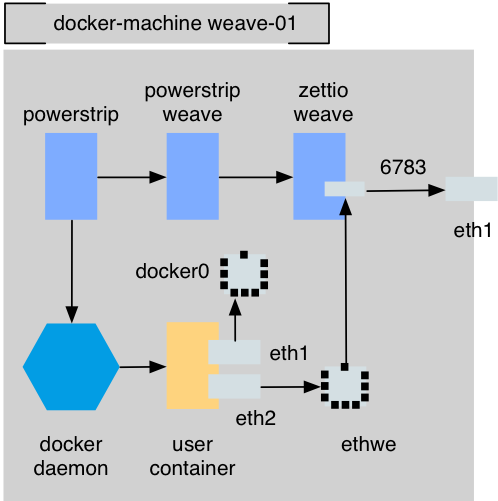
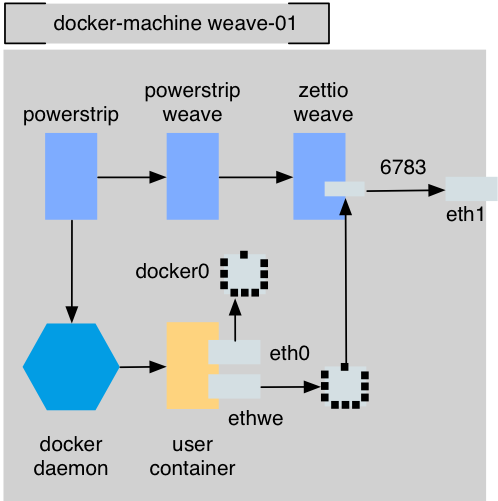
fix example weave01

diff --git a/README.md b/README.md
@@ -50,24 +50,56 @@ EOF
 Create you powerstrip weave at a docker composition:
 
 ```
-cat >docker-compose.yml <EOF
-weave
+cat >docker-compose.yml <<EOF
+weave:
   image: binocarlos/powerstrip-weave
   ports:
     - "80"
   volumes:
-    - /var/run/docker.sock:/var/run/docker.sock \
+    - /var/run/docker.sock:/var/run/docker.sock
   command: launch
 powerstrip:
   image: clusterhq/powerstrip
   ports:
-   - "2375:2375"
+    - "2378:2375"
   volumes:
     - /var/run/docker.sock:/var/run/docker.sock
     - adapters.yml:/etc/powerstrip/adapters.yml
   links:
-   - weave:weave
+    - weave:weave
 EOF
+```
+
+#### Install docker-compose at boot2docker installation
+
+```
+> docker run --rm --entrypoint=/scripts/install -v /usr/local/bin:/data infrabricks/docker-compose
+```
+
+```
+> docker-compose up
+```
+
+or
+
+```
+$ docker-machine ssh weave-01 "cd $(pwd) ; docker-compose up"
+```
+
+Now you can access docker-compose also from your windows system,
+if your sources are created at `c:\Users\<your account>\powerstrip-demo`.
+You must install the git/bash tools from boot2docker package!
+
+```
+$ docker-machine ssh weave-01
+> export DOCKER_HOST=tcp://127.0.0.1:2378
+docker ps
+```
+
+or
+
+```
+$ docker-machine ssh weave-01 "/bin/sh -c "docker -H tcp://127.0.0.1:2375 ps"
 ```
 
 * powerstrip-weave start zettio weave image!
@@ -82,35 +114,12 @@ alias weave=_weave
 weave status
 ```
 
-#### Install docker-compose at boot2docker installation
-
-```
-$ docker run --rm --entrypoint=/scripts/install -v /usr/local/bin:/data infrabricks/docker-compose
-$ docker-machine ssh weave-01 "cd $(pwd) ; docker-compose up"
-```
-
-Now you can access docker-compose also from your windows system,
-if your sources are created at `c:\Users\<your account>\powerstrip-demo`.
-You must install the git/bash tools from boot2docker package!
-
-```
-$ docker-machine ssh weave-01
-> export DOCKER_HOST=tcp://127.0.0.1:2375
-docker ps
-```
-
-or
-
-```
-$ docker-machine ssh weave-01 "/bin/sh -c "docker -H tcp://127.0.0.1:2375 ps"
-```
-
 #### Start a container
 
 You tell powerstrip-weave what IP address you want to give a container by using the `WEAVE_CIDR` environment variable for that new container - here we run a database server:
 
 ```
-$ docker run -d --name mysql \
+> DOCKER_HOST=tcp://127.0.0.1:2378 docker run -d --name mysql \
     -e WEAVE_CIDR=10.255.0.1/8 \
     -e MYSQL_ROOT_PASSWORD=mysecretpassword \
     mysql
@@ -125,6 +134,16 @@ default via 172.17.42.1 dev eth0
 10.0.0.0/8 dev ethwe  proto kernel  scope link  src 10.255.0.1
 172.17.0.0/16 dev eth0  proto kernel  scope link  src 172.17.0.17
 224.0.0.0/4 dev ethwe  scope link
+```
+
+#### Stop and remove
+
+```
+docker-compose stop
+docker-compose rm
+# stop and remove sub container...
+docker stop weave weavewait
+docker rm weave weavewait
 ```
 
 ### install second powerstrip weave machine
@@ -164,13 +183,13 @@ weave:
     - /var/run/docker.sock:/var/run/docker.sock
   command: launch $(docker-machine ip weave-01)
 debug:
-    image: binocarlos/powerstrip-debug
-    ports:
-      - "80"
+  image: binocarlos/powerstrip-debug
+  ports:
+    - "80"
 powerstrip:
   image: clusterhq/powerstrip
   ports:
-   - "2375:2375"
+    - "2378:2375"
   volumes:
     - /var/run/docker.sock:/var/run/docker.sock
     - adapters-debug.yml:/etc/powerstrip/adapters.yml
@@ -178,7 +197,7 @@ powerstrip:
    - weave:weave
    - debug:debug
 EOF
-> docker-compose -f docker-compose-weave2.yml up -d
+> docker-compose -f docker-compose-weave-02.yml up -d
 ```
 
 **WARNING**: Here you must use the weave-01 IP-address. The example
@@ -198,7 +217,7 @@ Now you can start a container and ping your mysql:
 
 ```
 $ docker-machine ssh weave-02
-> DOCKER_HOST=tcp://127.0.0.1:2375
+> DOCKER_HOST=tcp://127.0.0.1:2378
 > docker run -ti --rm -e -e WEAVE_CIDR=10.255.0.2/8 ubuntu
 > ping 10.255.0.1 -c 1
 ```
